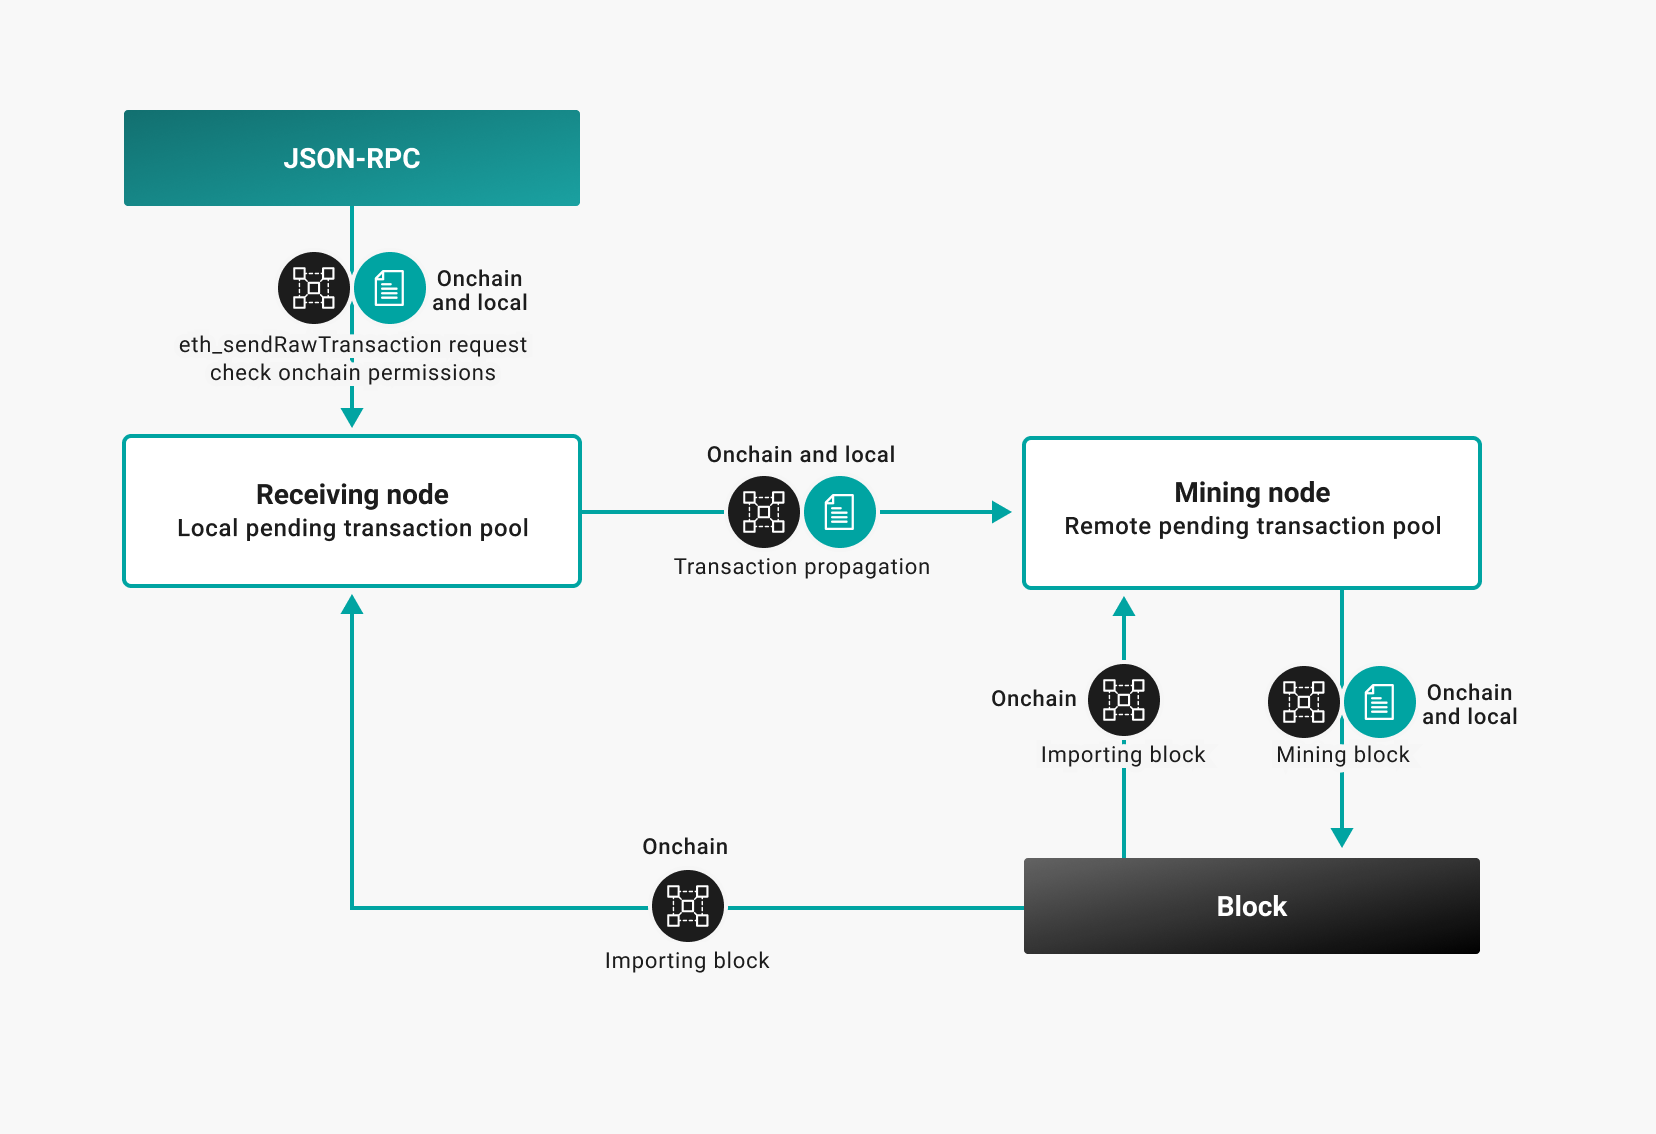
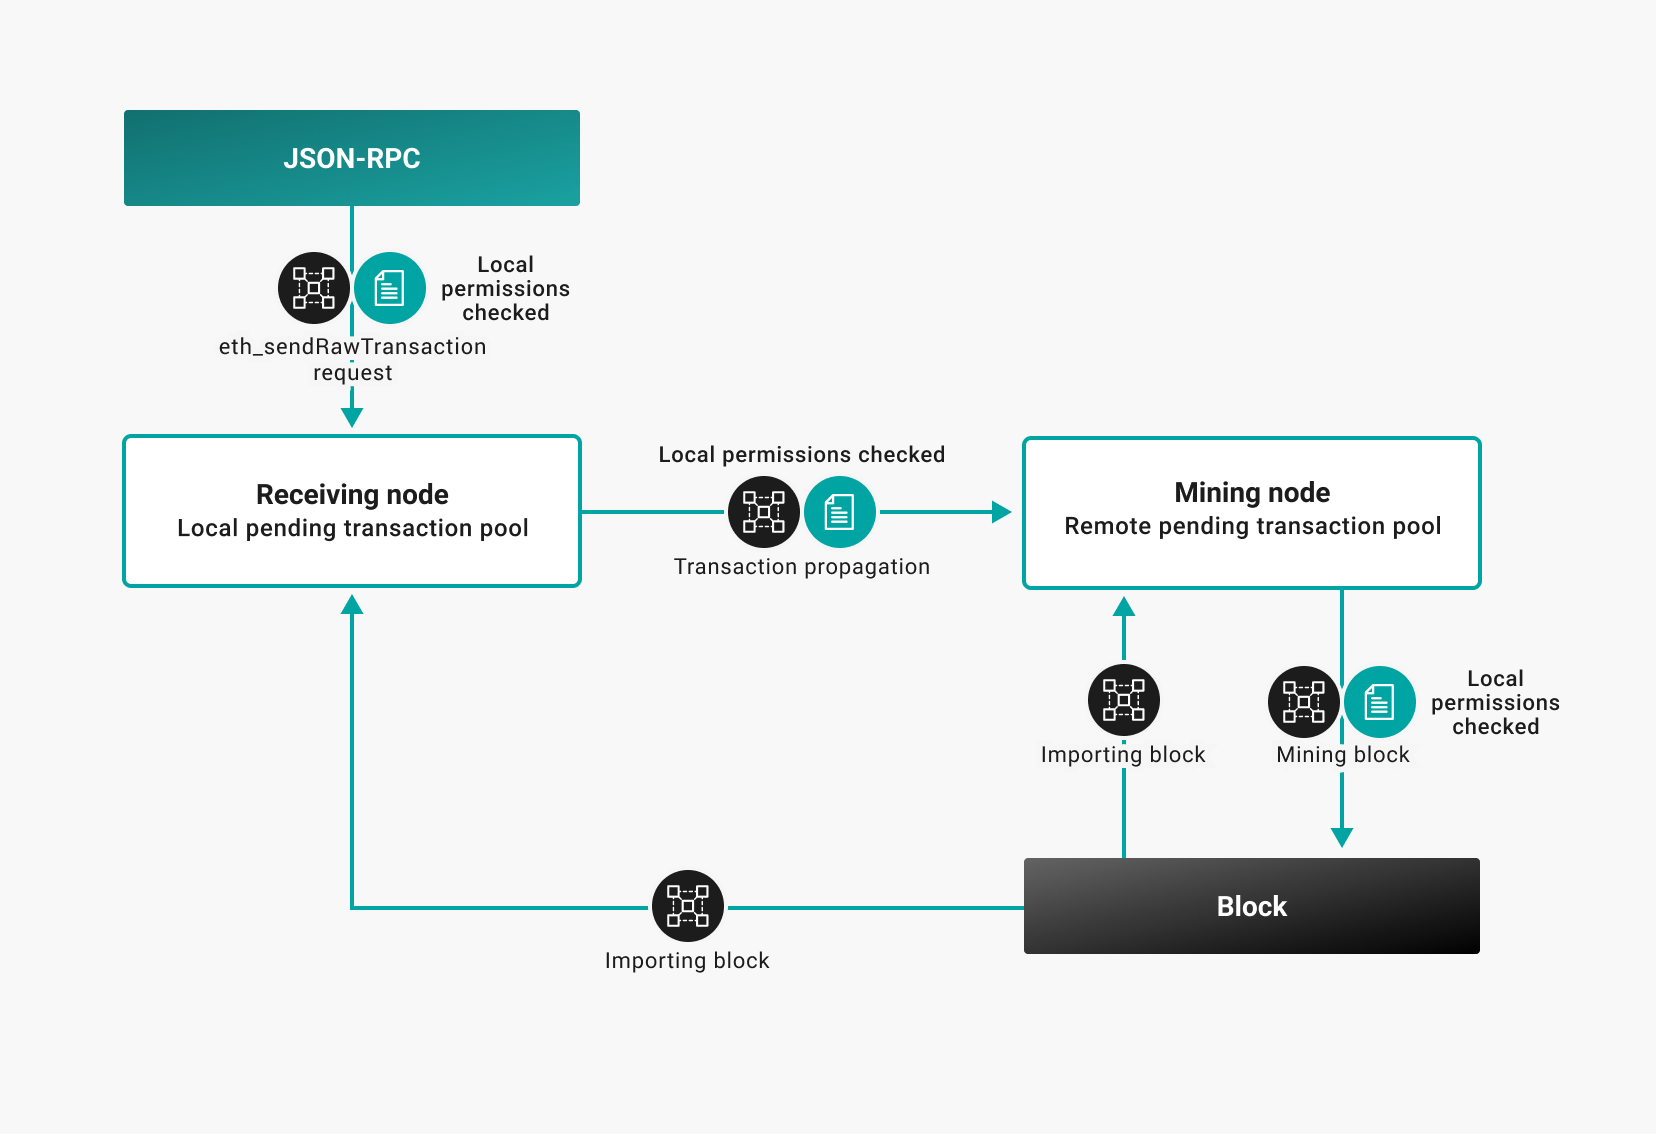
address reviewer feedback

diff --git a/docs/private-networks/concepts/permissioning/index.md b/docs/private-networks/concepts/permissioning/index.md
@@ -10,9 +10,9 @@ tags:
 
 A permissioned network enables node permissioning and account permissioning, allowing only specified nodes and accounts to access the network.
 
-:::caution Permissioning is not privacy
+:::caution Permissioning in peer-to-peer networks: challenges and enforcement
 
-In peer-to-peer networks, node permissioning enforces rules on nodes you control.
+In peer-to-peer networks, permissioning enforces rules on nodes you control.
 
 Permissioning requires a distributed network of trust across the network where participants agree to follow the rules. One bad actor can decide not to follow the rules. Nodes can take action to prevent the bad actor from adding to the chain but they cannot prevent the bad actor from allowing access to the chain.
 
@@ -36,11 +36,13 @@ Use account permissioning to:
 
 ## Specify local permissioning
 
-[Local permissioning](../../how-to/use-local-permissioning.md) works at the node level. Each node in the network has a [permissions configuration file].
+[Local permissioning](../../how-to/use-local-permissioning.md) works at the node level. Each node in the network has a [permissions configuration file], which can be used to configure node and/or account permissioning rules.
 
 Local permissioning affects your node but not the rest of the network. Use local permissioning to restrict use of your node (that is, the resources under your control). For example, customers are able to access your node.
 
 Local permissioning does not require coordination with the rest of the network and you can act immediately to protect your node. Your rules are not enforced in blocks produced by other nodes.
+
+To implement more complex permissioning rules, you can [write your own plugin](plugin.md).
 
 <!-- Links -->
 

diff --git a/docs/public-networks/reference/cli/options.md b/docs/public-networks/reference/cli/options.md
@@ -3636,7 +3636,7 @@ rpc-http-api=["ETH","NET","WEB3"]
 
 </Tabs>
 
-A comma-separated list of APIs to enable on the JSON-RPC HTTP channel. When you use this option you must also specify the `--rpc-http-enabled` option. The available API options are: `ADMIN`, `CLIQUE`, `DEBUG`, `EEA`, `ETH`, `IBFT`, `MINER`, `NET`, `PERM`, `PLUGINS`, `PRIV`, `QBFT`, `TRACE`, `TXPOOL`, and `WEB3`. The default is: `ETH`, `NET`, `WEB3`.
+A comma-separated list of APIs to enable on the JSON-RPC HTTP channel. When you use this option you must also specify the `--rpc-http-enabled` option. The available API options are: `ADMIN`, `CLIQUE`, `DEBUG`, `ETH`, `IBFT`, `MINER`, `NET`, `PERM`, `PLUGINS`, `QBFT`, `TRACE`, `TXPOOL`, and `WEB3`. The default is: `ETH`, `NET`, `WEB3`.
 
 :::tip
 
@@ -4777,7 +4777,7 @@ rpc-ws-api=["ETH","NET","WEB3"]
 
 </Tabs>
 
-A comma-separated list of APIs to enable on the WebSockets channel. When you use this option you must also specify the `--rpc-ws-enabled` option. The available API options are: `ADMIN`, `CLIQUE`, `DEBUG`, `EEA`, `ETH`, `IBFT`, `MINER`, `NET`, `PERM`, `PLUGINS`, `PRIV`, `QBFT`, `TRACE`, `TXPOOL`, and `WEB3`. The default is: `ETH`, `NET`, `WEB3`.
+A comma-separated list of APIs to enable on the WebSockets channel. When you use this option you must also specify the `--rpc-ws-enabled` option. The available API options are: `ADMIN`, `CLIQUE`, `DEBUG`, `ETH`, `IBFT`, `MINER`, `NET`, `PERM`, `PLUGINS`, `QBFT`, `TRACE`, `TXPOOL`, and `WEB3`. The default is: `ETH`, `NET`, `WEB3`.
 
 :::tip
 

diff --git a/docs/private-networks/how-to/use-local-permissioning.md b/docs/private-networks/how-to/use-local-permissioning.md
@@ -104,7 +104,7 @@ Transaction validation against the accounts allowlist occurs at the following po
 
 After adding transactions to a block, the transactions are not validated against the allowlist when received by another node. That is, a node can synchronize and add blocks containing transactions from accounts that are not on the accounts allowlist of that node.
 
-The following diagram illustrates applying permissioning rules.
+The following diagram illustrates where local permissioning rules are checked.
 
 ![Permissioning Flow](../../assets/images/PermissioningFlow.png)
 

diff --git a/docs/private-networks/index.md b/docs/private-networks/index.md
@@ -16,7 +16,7 @@ A private (also known as permissioned) network is a network not connected to Eth
 
 You can also [create a local development network using proof of work (PoW) (Deprecated)](tutorials/ethash.md).
 
-Besu supports enterprise features including [permissioning](concepts/permissioning/index.md).
+Besu supports [permissioning](concepts/permissioning/index.md), and has a modular [plugin](../public-networks/concepts/plugins.md) framework.
 
 Get started with the [Developer Quickstart](tutorials/quickstart.md) to rapidly generate local blockchain networks.
 
